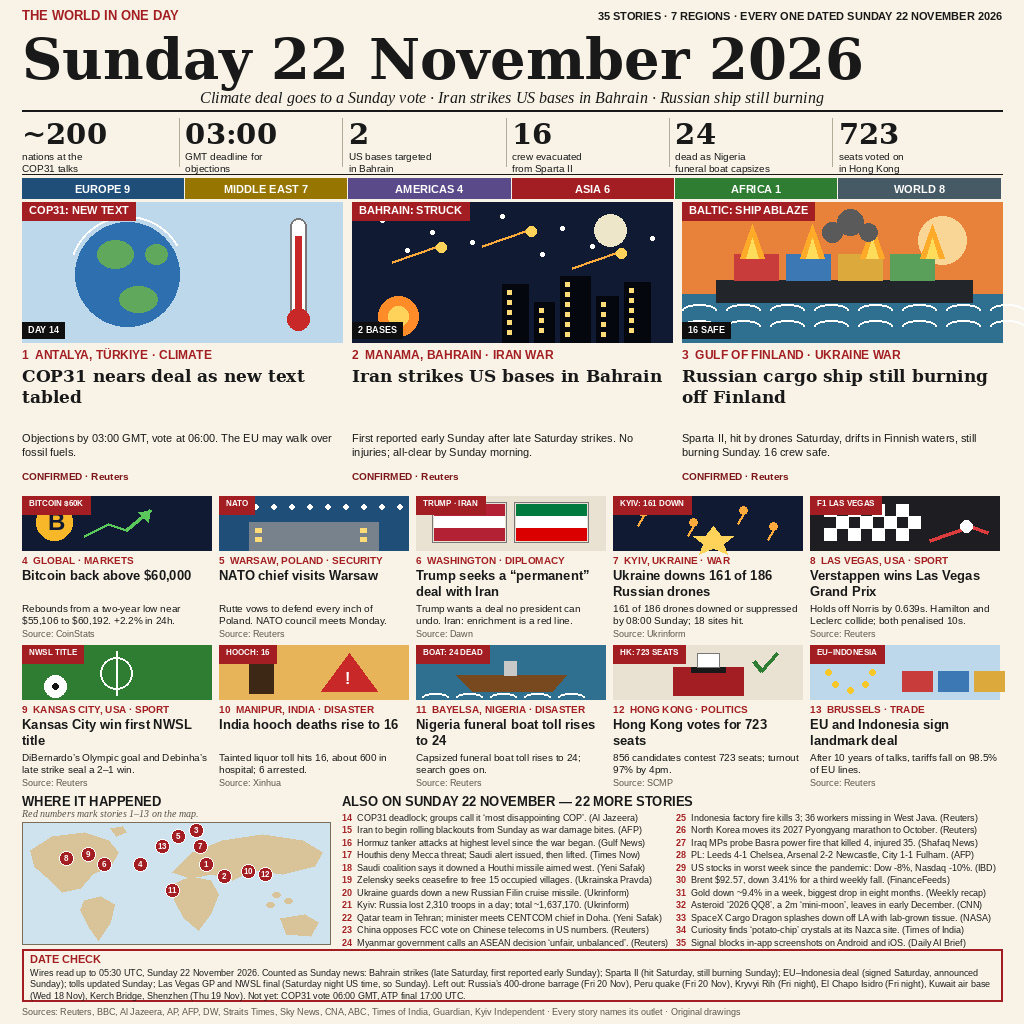
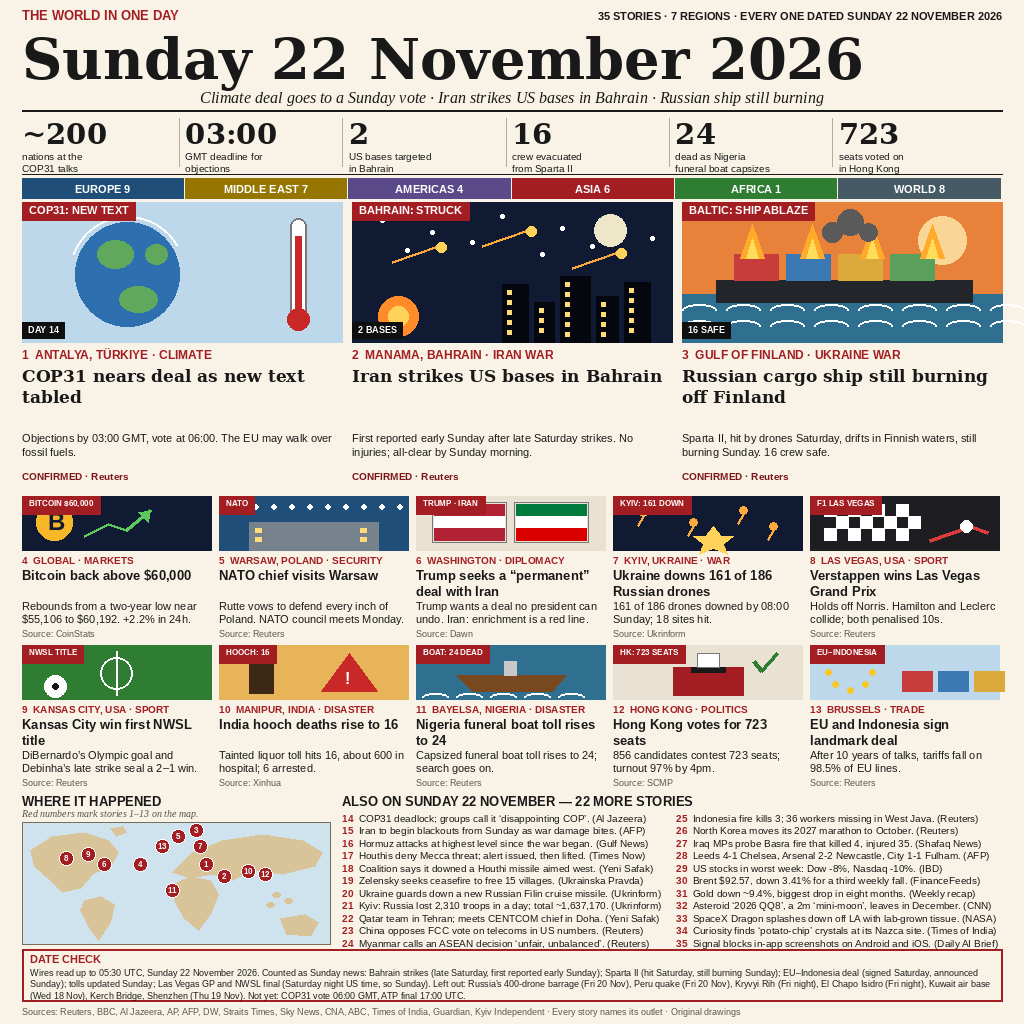
v2: fix BTC ticker, loosen 300px density
- BTC tag BITCOIN $60K -> BITCOIN $60,000 (was misread as $85K; now matches title $60,000 / summary $60,192)
- Briefs 14-35: 9pt -> 10pt, trimmed 1-3 words on 17 overlong briefs so all fit
- Small-card summaries: 10pt -> 11pt (leading 13.5), trimmed #7/#8 to fit 2 lines
- No change to 35 stories, structure, or main.ts

diff --git a/gen_1122.py b/gen_1122.py
@@ -226,7 +226,7 @@ for i, c in enumerate(BIG):
 
 # ---------------------------------------------------------------- small cards
 SMALL = [
-    dict(n=4, tag="BITCOIN $60K", kick="4  GLOBAL \u00b7 MARKETS",
+    dict(n=4, tag="BITCOIN $60,000", kick="4  GLOBAL \u00b7 MARKETS",
          title="Bitcoin back above $60,000",
          summ="Rebounds from a two-year low near $55,106 to $60,192. +2.2% in 24h.",
          src="CoinStats"),
@@ -240,11 +240,11 @@ SMALL = [
          src="Dawn"),
     dict(n=7, tag="KYIV: 161 DOWN", kick="7  KYIV, UKRAINE \u00b7 WAR",
          title="Ukraine downs 161 of 186 Russian drones",
-         summ="161 of 186 drones downed or suppressed by 08:00 Sunday; 18 sites hit.",
+         summ="161 of 186 drones downed by 08:00 Sunday; 18 sites hit.",
          src="Ukrinform"),
     dict(n=8, tag="F1 LAS VEGAS", kick="8  LAS VEGAS, USA \u00b7 SPORT",
          title="Verstappen wins Las Vegas Grand Prix",
-         summ="Holds off Norris by 0.639s. Hamilton and Leclerc collide; both penalised 10s.",
+         summ="Holds off Norris. Hamilton and Leclerc collide; both penalised 10s.",
          src="Reuters"),
     dict(n=9, tag="NWSL TITLE", kick="9  KANSAS CITY, USA \u00b7 SPORT",
          title="Kansas City win first NWSL title",
@@ -377,10 +377,10 @@ for row in range(2):
         if over:
             warns.append("small title %d over" % c["n"])
         text_block(d, sx, sy + 72, tlines, F(SANS_B, 13), INK, 16)
-        slines, over = wrap(c["summ"], F(SANS, 10), sm_w, 2)
+        slines, over = wrap(c["summ"], F(SANS, 11), sm_w, 2)
         if over:
             warns.append("small summ %d over" % c["n"])
-        text_block(d, sx, sy + 106, slines, F(SANS, 10), INK, 12.5)
+        text_block(d, sx, sy + 104, slines, F(SANS, 11), INK, 13.5)
         d.text((sx, sy + 132), "Source: " + c["src"], font=F(SANS, 9),
                fill=GRAY)
 
@@ -427,31 +427,31 @@ for i, (dx, dy) in enumerate(DOTS, start=1):
     d.text((dx - f.getlength(s) / 2, dy - 5), s, font=f, fill=(255, 255, 255))
 
 BRIEFS = [
-    (14, "COP31 deadlock; groups call it \u2018most disappointing COP\u2019. (Al Jazeera)"),
-    (15, "Iran to begin rolling blackouts from Sunday as war damage bites. (AFP)"),
-    (16, "Hormuz tanker attacks at highest level since the war began. (Gulf News)"),
-    (17, "Houthis deny Mecca threat; Saudi alert issued, then lifted. (Times Now)"),
-    (18, "Saudi coalition says it downed a Houthi missile aimed west. (Yeni Safak)"),
-    (19, "Zelensky seeks ceasefire to free 15 occupied villages. (Ukrainska Pravda)"),
+    (14, "COP31 deadlock; groups call it \u2018disappointing COP\u2019. (Al Jazeera)"),
+    (15, "Iran to begin blackouts from Sunday as war damage bites. (AFP)"),
+    (16, "Hormuz attacks at highest level since the war began. (Gulf News)"),
+    (17, "Houthis deny Mecca threat; alert issued, then lifted. (Times Now)"),
+    (18, "Coalition says it downed a Houthi missile aimed west. (Yeni Safak)"),
+    (19, "Zelensky seeks ceasefire to free 15 villages. (Ukrainska Pravda)"),
     (20, "Ukraine guards down a new Russian Filin cruise missile. (Ukrinform)"),
     (21, "Kyiv: Russia lost 2,310 troops in a day; total ~1,637,170. (Ukrinform)"),
-    (22, "Qatar team in Tehran; minister meets CENTCOM chief in Doha. (Yeni Safak)"),
-    (23, "China opposes FCC vote on Chinese telecoms in US numbers. (Reuters)"),
-    (24, "Myanmar government calls an ASEAN decision \u2018unfair, unbalanced\u2019. (Reuters)"),
-    (25, "Indonesia factory fire kills 3; 36 workers missing in West Java. (Reuters)"),
-    (26, "North Korea moves its 2027 Pyongyang marathon to October. (Reuters)"),
-    (27, "Iraq MPs probe Basra power fire that killed 4, injured 35. (Shafaq News)"),
-    (28, "PL: Leeds 4-1 Chelsea, Arsenal 2-2 Newcastle, City 1-1 Fulham. (AFP)"),
-    (29, "US stocks in worst week since the pandemic: Dow -8%, Nasdaq -10%. (IBD)"),
+    (22, "Qatar team in Tehran; meets CENTCOM chief in Doha. (Yeni Safak)"),
+    (23, "China opposes FCC vote on telecoms in US numbers. (Reuters)"),
+    (24, "Myanmar calls an ASEAN decision \u2018unfair, unbalanced\u2019. (Reuters)"),
+    (25, "Indonesia fire kills 3; 36 workers missing in West Java. (Reuters)"),
+    (26, "North Korea moves its 2027 marathon to October. (Reuters)"),
+    (27, "Iraq MPs probe Basra fire that killed 4, injured 35. (Shafaq News)"),
+    (28, "Leeds 4-1 Chelsea, Arsenal 2-2 Newcastle, City 1-1 Fulham. (AFP)"),
+    (29, "US stocks in worst week: Dow -8%, Nasdaq -10%. (IBD)"),
     (30, "Brent $92.57, down 3.41% for a third weekly fall. (FinanceFeeds)"),
-    (31, "Gold down ~9.4% in a week, biggest drop in eight months. (Weekly recap)"),
-    (32, "Asteroid \u20182026 QQ8\u2019, a 2m \u2018mini-moon\u2019, leaves in early December. (CNN)"),
-    (33, "SpaceX Cargo Dragon splashes down off LA with lab-grown tissue. (NASA)"),
+    (31, "Gold down ~9.4%, biggest drop in eight months. (Weekly recap)"),
+    (32, "Asteroid \u20182026 QQ8\u2019, a 2m \u2018mini-moon\u2019, leaves in December. (CNN)"),
+    (33, "SpaceX Dragon splashes down off LA with lab-grown tissue. (NASA)"),
     (34, "Curiosity finds \u2018potato-chip\u2019 crystals at its Nazca site. (Times of India)"),
     (35, "Signal blocks in-app screenshots on Android and iOS. (Daily AI Brief)"),
 ]
-bf = F(SANS, 9)
-bnf = F(SANS_B, 9)
+bf = F(SANS, 10)
+bnf = F(SANS_B, 10)
 for i, (n, txt) in enumerate(BRIEFS):
     col = 0 if i < 11 else 1
     bx = 342 + col * 334
